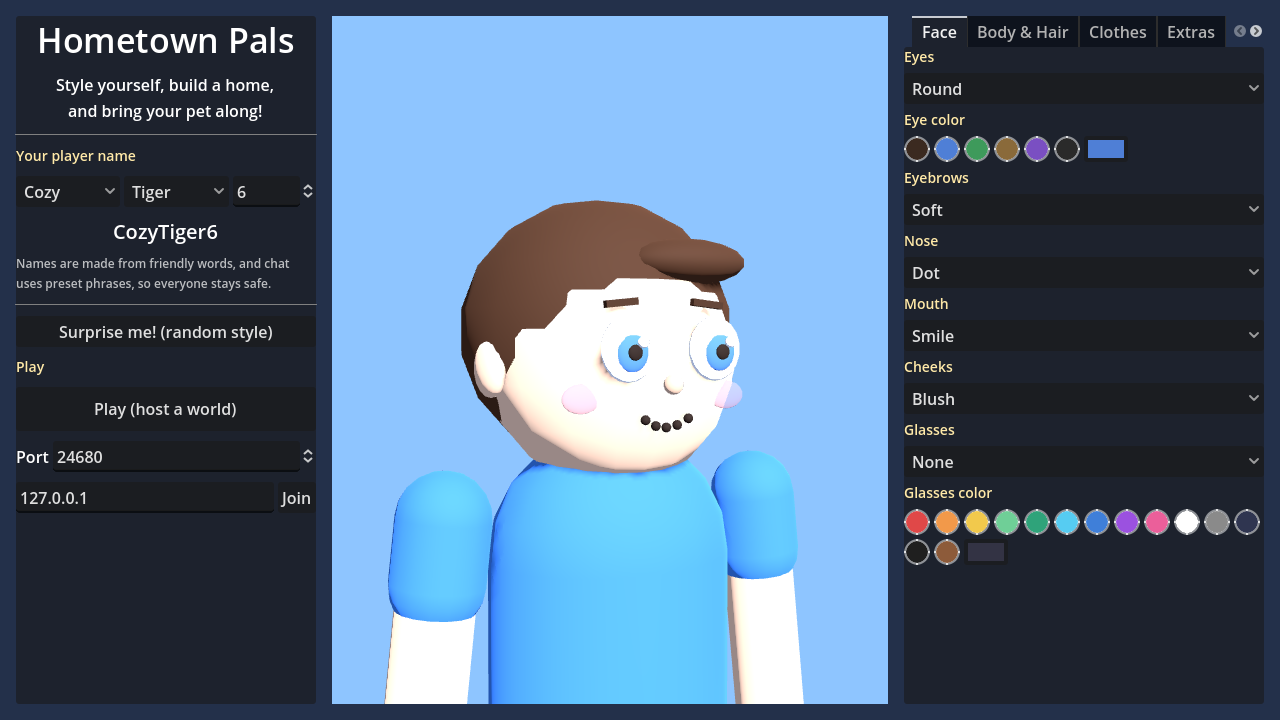
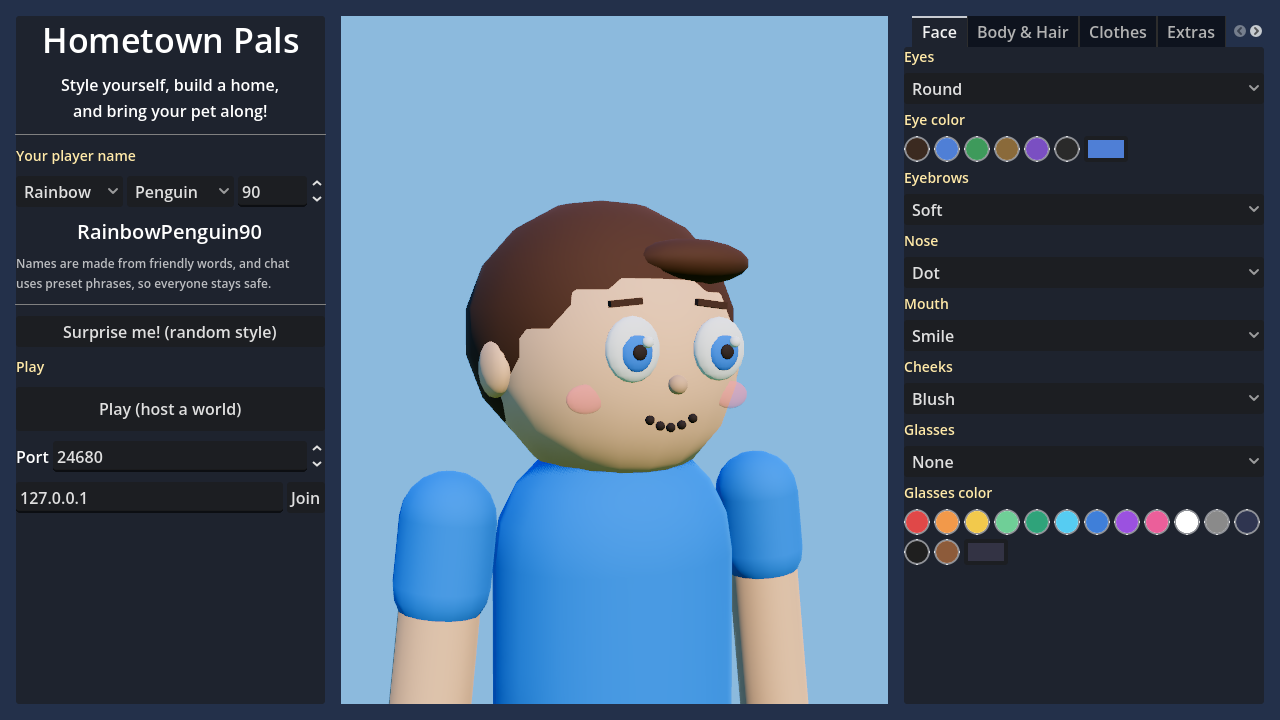
Upgrade to Godot 4.7.2 and tune the sky and lighting
- Move the project and the web build workflow from Godot 4.3 to 4.7.2,
  which the ithappy art packs need. Commit the .uid files Godot 4.4+
  creates next to each script.
- New Lighting helper shared by the world and the menu preview: sky-lit
  ambient light, warmer sun with softer shadows, AgX tonemapping with a
  saturation boost, ambient occlusion, and fog that fades distant trees
  into the horizon.
- The browser (Compatibility) renderer comes out much brighter for the same
  light values, so it gets dimmer lights. Before this the browser game was
  washed out to white.
- Glow only outdoors: in the browser it turned the menu preview background
  white.
- Warmer plaza color, and refreshed README screenshots.

Claude-Session: https://claude.ai/code/session_01HCWxQBKSiuV5aXeyq5oVus

diff --git a/README.md b/README.md
@@ -1,6 +1,6 @@
 # Hometown Pals
 
-An original online 3D neighborhood game for kids, built with **Godot 4.3+** (GDScript).
+An original online 3D neighborhood game for kids, built with **Godot 4.7+** (GDScript).
 Style your character, build and decorate your own home, and bring your pet everywhere.
 
 ![Character creator](docs/menu.png)
@@ -17,7 +17,7 @@ downloaded game below. Your character, pet and home are saved in the browser.
 
 ## Run it
 
-1. Install [Godot 4.3 or newer](https://godotengine.org/download) (standard build, not .NET).
+1. Install [Godot 4.7 or newer](https://godotengine.org/download) (standard build, not .NET).
 2. Open Godot, click **Import**, and pick this folder's `project.godot`.
 3. Press **F5**. Style your character, then click **Play (host a world)**.
 
@@ -55,7 +55,7 @@ All art is built from simple shapes in code, so there are no asset files to mana
 
 ## Developer helpers
 
-To build the browser version yourself, install the 4.3 export templates (Editor > Manage Export Templates),
+To build the browser version yourself, install the 4.7.2 export templates (Editor > Manage Export Templates),
 then use **Project > Export > Web**, or from a terminal:
 
 ```sh

diff --git a/docs/ARCHITECTURE.md b/docs/ARCHITECTURE.md
@@ -20,6 +20,7 @@ scripts/
   ui/hud.gd                   In-world UI
   util/safe_names.gd          Word lists for names, pet names and chat phrases
   util/mesh_util.gd           Primitive-mesh helpers
+  util/lighting.gd            Shared sky, sunlight and color grading (world and menu preview)
   dev/                        Smoke test and screenshot helpers (only run with flags)
 ```
 
